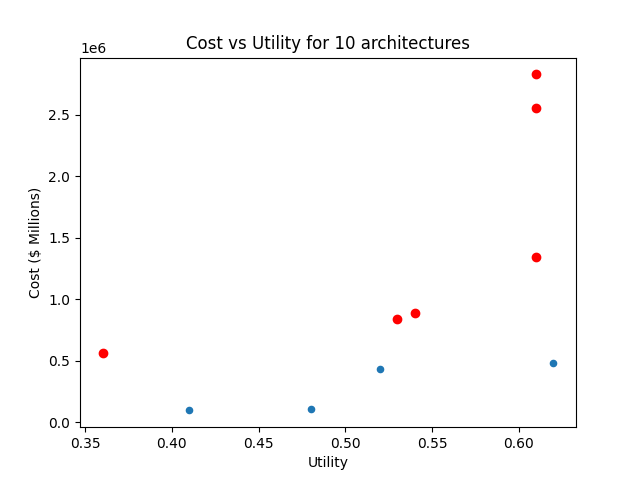
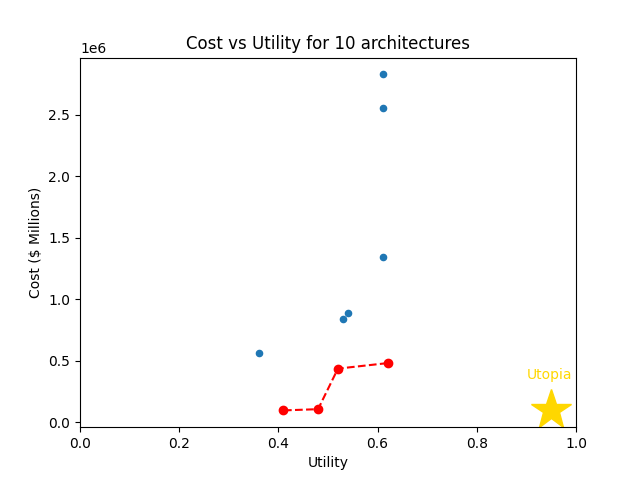
adding in Utopia point and also changing the direction of the parteo frontier.

diff --git a/OS_13/pythonTrade.py b/OS_13/pythonTrade.py
@@ -26,7 +26,7 @@ def pareto_frontier(Xs, Ys, maxX = True, maxY = True):
     p_frontY = [pair[1] for pair in p_front]
     return p_frontX, p_frontY
 
-X_values, Y_values = pareto_frontier(imported_df["Utility"], imported_df["Cost"], maxX = False, maxY = True)
+X_values, Y_values = pareto_frontier(imported_df["Utility"], imported_df["Cost"], maxX = True, maxY = False)
 #pareto_pts = keep_efficient(np.array(imported_df[["Utility", "Cost"]]))
 #bool_pareto = (is_pareto_efficient_simple(imported_df[["Utility", "Cost"]].to_numpy()))
 #print(pareto_pts)
@@ -37,10 +37,13 @@ print(X_values, Y_values)
 #fig = ax.get_figure()
 #fig.savefig('figure.png')
 ax = plt.gca()
-#ax.set_xlim([0, 1])
+ax.set_xlim([0, 1])
 plt.scatter(X_values, Y_values, c="red")
+plt.plot(X_values, Y_values, 'red', linestyle="--")
 plt.title("Cost vs Utility for 10 architectures")
 plt.ylabel("Cost ($ Millions)")
+plt.text(0.9, 350000, "Utopia", color="gold")
+plt.plot(0.95, 100000, marker='*', markersize=30, color="gold")
 # Then plot the Pareto frontier on top
 # plt.plot(p_front[0], p_front[1])
 plt.savefig('figure.png')
